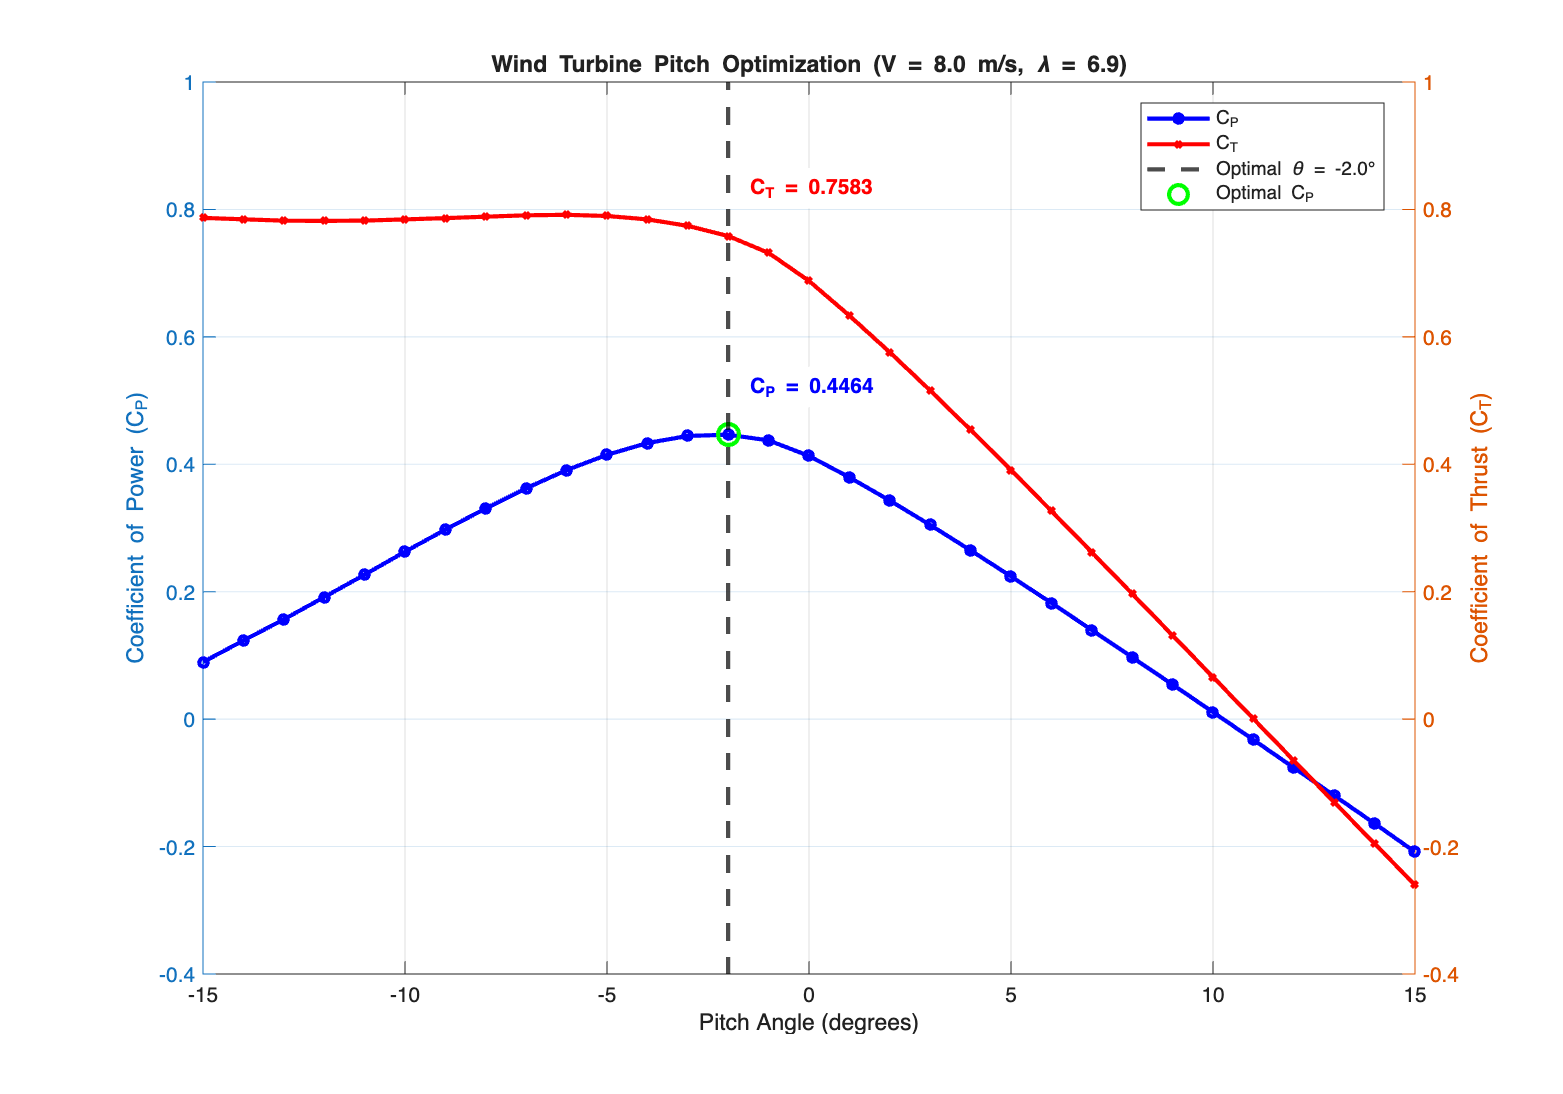
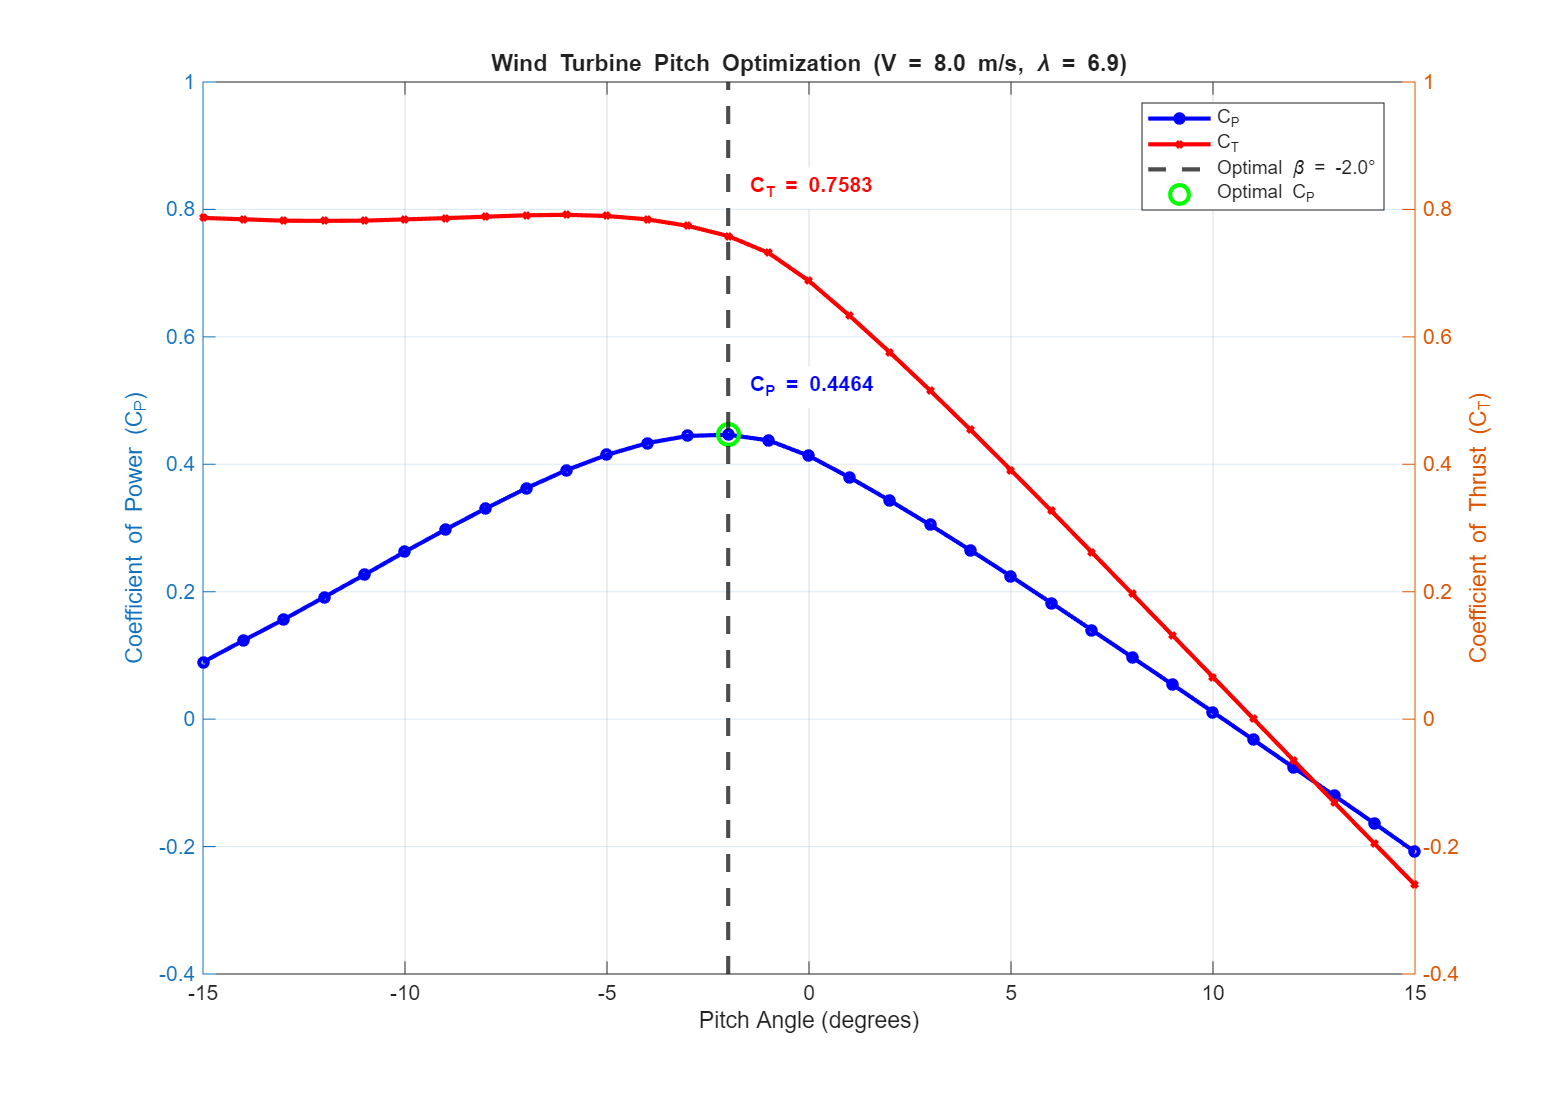
small changes

diff --git a/MATLAB CodeBase/Master_Commented.m b/MATLAB CodeBase/Master_Commented.m
@@ -95,9 +95,9 @@ function config = createConfig() % USED FOR CHOOSING OUTPUT PLOTS
     % Dependencies: D5 requires D4 results for realistic operating conditions
     config.run_deliverable_1 =      true;    % Basic BEM Analysis (CP, CT calculation)
     config.run_deliverable_2 =      true;    % Pitch Optimization (optimal pitch finding)
-    config.run_deliverable_3 =      true;    % 2D CP Optimization (lambda & pitch optimization)
-    config.run_deliverable_4 =      true;    % Rated Power Pitch Control (pitch for 2.5 MW)
-    config.run_deliverable_5 =      true;    % Tower Structural Analysis (deflection & stress)
+    config.run_deliverable_3 =      false;    % 2D CP Optimization (lambda & pitch optimization)
+    config.run_deliverable_4 =      false;    % Rated Power Pitch Control (pitch for 2.5 MW)
+    config.run_deliverable_5 =      false;    % Tower Structural Analysis (deflection & stress)
     
     % ============================================================================
     % VISUALIZATION CONTROL
@@ -105,18 +105,18 @@ function config = createConfig() % USED FOR CHOOSING OUTPUT PLOTS
     % Enable/disable specific plot generation for each deliverable
     % Set to true to generate plots, false to skip (saves computation time)
     config.plot_d1_results =        false;    % D1: Side-by-side CP/CT distribution plots
-    config.plot_d2_optimization =   false;    % D2: CP/CT vs pitch angle optimization
-    config.plot_d3_optimization =   true;    % D3: 3D surface plot of CP optimization
+    config.plot_d2_optimization =   true;    % D2: CP/CT vs pitch angle optimization
+    config.plot_d3_optimization =   false;    % D3: 3D surface plot of CP optimization
     config.plot_d4_power =          false;    % D4: Power vs pitch for rated power control
-    config.plot_d5_deflection =     true;    % D5: Tower deflection profile plots
+    config.plot_d5_deflection =     false;    % D5: Tower deflection profile plots
     config.plot_d5_mohr =           false;    % D5: Mohrs circle stress analysis
-    config.plot_d5_goodman =        true;    % D5: Goodman diagram fatigue analysis
-    config.plot_d5_tower =          true;    % D5: Comprehensive tower analysis plots
+    config.plot_d5_goodman =        false;    % D5: Goodman diagram fatigue analysis
+    config.plot_d5_tower =          false;    % D5: Comprehensive tower analysis plots
     
     % ============================================================================
     % OUTPUT AND FILE MANAGEMENT
     % ============================================================================
-    config.save_plots = false;          % Save all generated plots as PNG files
+    config.save_plots = true;          % Save all generated plots as PNG files
     config.parameters_path = 'Auxilary Information/Given Parameters/'; % Path to input data files
     
     % ============================================================================
@@ -1897,7 +1897,7 @@ function createPitchOptimizationPlot(pitch_range, CP_values, CT_values, optimal_
     hold off;
     xlabel('Pitch Angle (degrees)');
     title(sprintf('Wind Turbine Pitch Optimization (V = %.1f m/s, \\lambda = %.1f)', V_wind, lambda));
-    legend('C_P', 'C_T', sprintf('Optimal \\theta = %.1f°', optimal_pitch), 'Optimal C_P', 'Location', 'best'); grid on;
+    legend('C_P', 'C_T', sprintf('Optimal \\beta = %.1f°', optimal_pitch), 'Optimal C_P', 'Location', 'best'); grid on;
     
     if config.save_plots
         saveas(gcf, 'Pitch_Optimization_Results.png');

diff --git a/MATLAB CodeBase/Master_Submittal.m b/MATLAB CodeBase/Master_Submittal.m
@@ -1897,7 +1897,7 @@ function createPitchOptimizationPlot(pitch_range, CP_values, CT_values, optimal_
     hold off;
     xlabel('Pitch Angle (degrees)');
     title(sprintf('Wind Turbine Pitch Optimization (V = %.1f m/s, \\lambda = %.1f)', V_wind, lambda));
-    legend('C_P', 'C_T', sprintf('Optimal \\theta = %.1f°', optimal_pitch), 'Optimal C_P', 'Location', 'best'); grid on;
+    legend('C_P', 'C_T', sprintf('Optimal \\beta = %.1f°', optimal_pitch), 'Optimal C_P', 'Location', 'best'); grid on;
     
     if config.save_plots
         saveas(gcf, 'Pitch_Optimization_Results.png');
